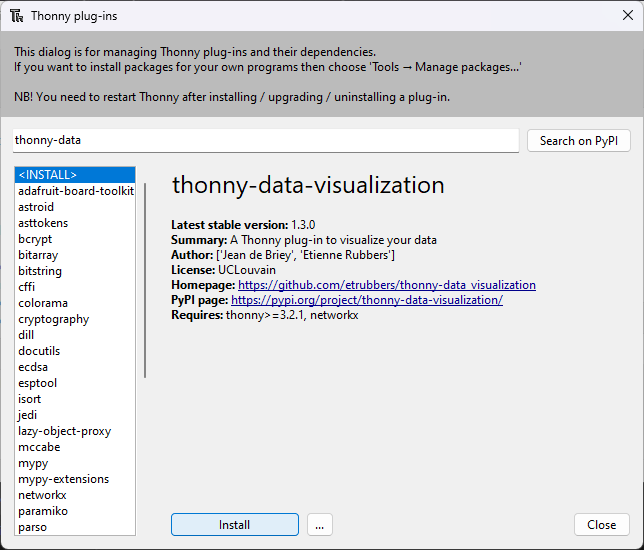
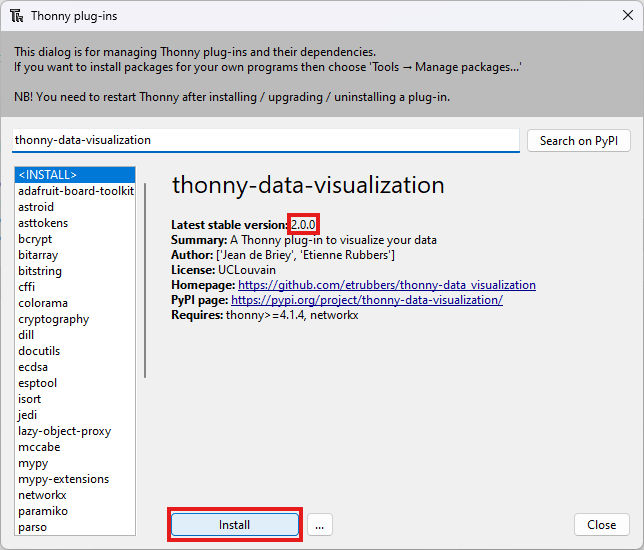
Better looking

diff --git a/setup.py b/setup.py
@@ -7,7 +7,7 @@ long_description = (here / "README.md").read_text(encoding="utf-8")
 
 setup(
     name="thonny-data_visualization",
-    version="1.5.0",
+    version="2.0.0",
     description="A Thonny plug-in to visualize your data",
     long_description=long_description,
     long_description_content_type="text/markdown",

diff --git a/README.md b/README.md
@@ -16,6 +16,27 @@ After this you should see Globals and locals variables, Hierarchical data view a
 
 ## Usage
 
-* Visualize your data and its structure.
-* Debug your code seeing the connections between your data.
-* More details in the [usage manual](Usage_manual.md)
+More details in the [usage manual](Usage_manual.md)
+
+### Using the globals and locals variables view
+
+1. In the View section, select Globals and locals variables
+2. Run or debug your program to see your variables
+3. Open the object inspector and see the details of your variables
+
+### Using the hierarchical view
+
+1. In the View section, select Hierarchical data view
+2. Run or debug your program
+3. Use the + and - buttons to see the hierarchical representation of your different variables
+
+### Using the graphical view
+
+1. In the View section, select Graphical data view
+2. Run or debug your program
+3. Use the little colored circles to see the links between your variables
+
+- In this view you can move the different blocks and replace them by default with the Align button above
+- You can also use the + and - buttons to see or hide details about your variables
+- You can use the Extend and Reduce buttons to display or hide the details of all the variables
+- You can use the button above on the right to allow the view to show more (or less) informations about your variables, especially the imported ones 

diff --git a/Usage_manual.md b/Usage_manual.md
@@ -30,6 +30,14 @@ You need to restart Thonny for the functions to be displayed. To do this, simply
 
 ## Using the globals and locals variables view
 
+### In short :
+
+1. In the View section, select Globals and locals variables
+2. Run or debug your program to see your variables
+3. Open the object inspector and see the details of your variables
+
+### In details :
+
 1. To display the local and global variables view, go to the ‘Views’ tab at the top left and select the ‘Globals and locals variables’ view. A new window will open on the right showing the global and local variables.
 
     <p align="center">
